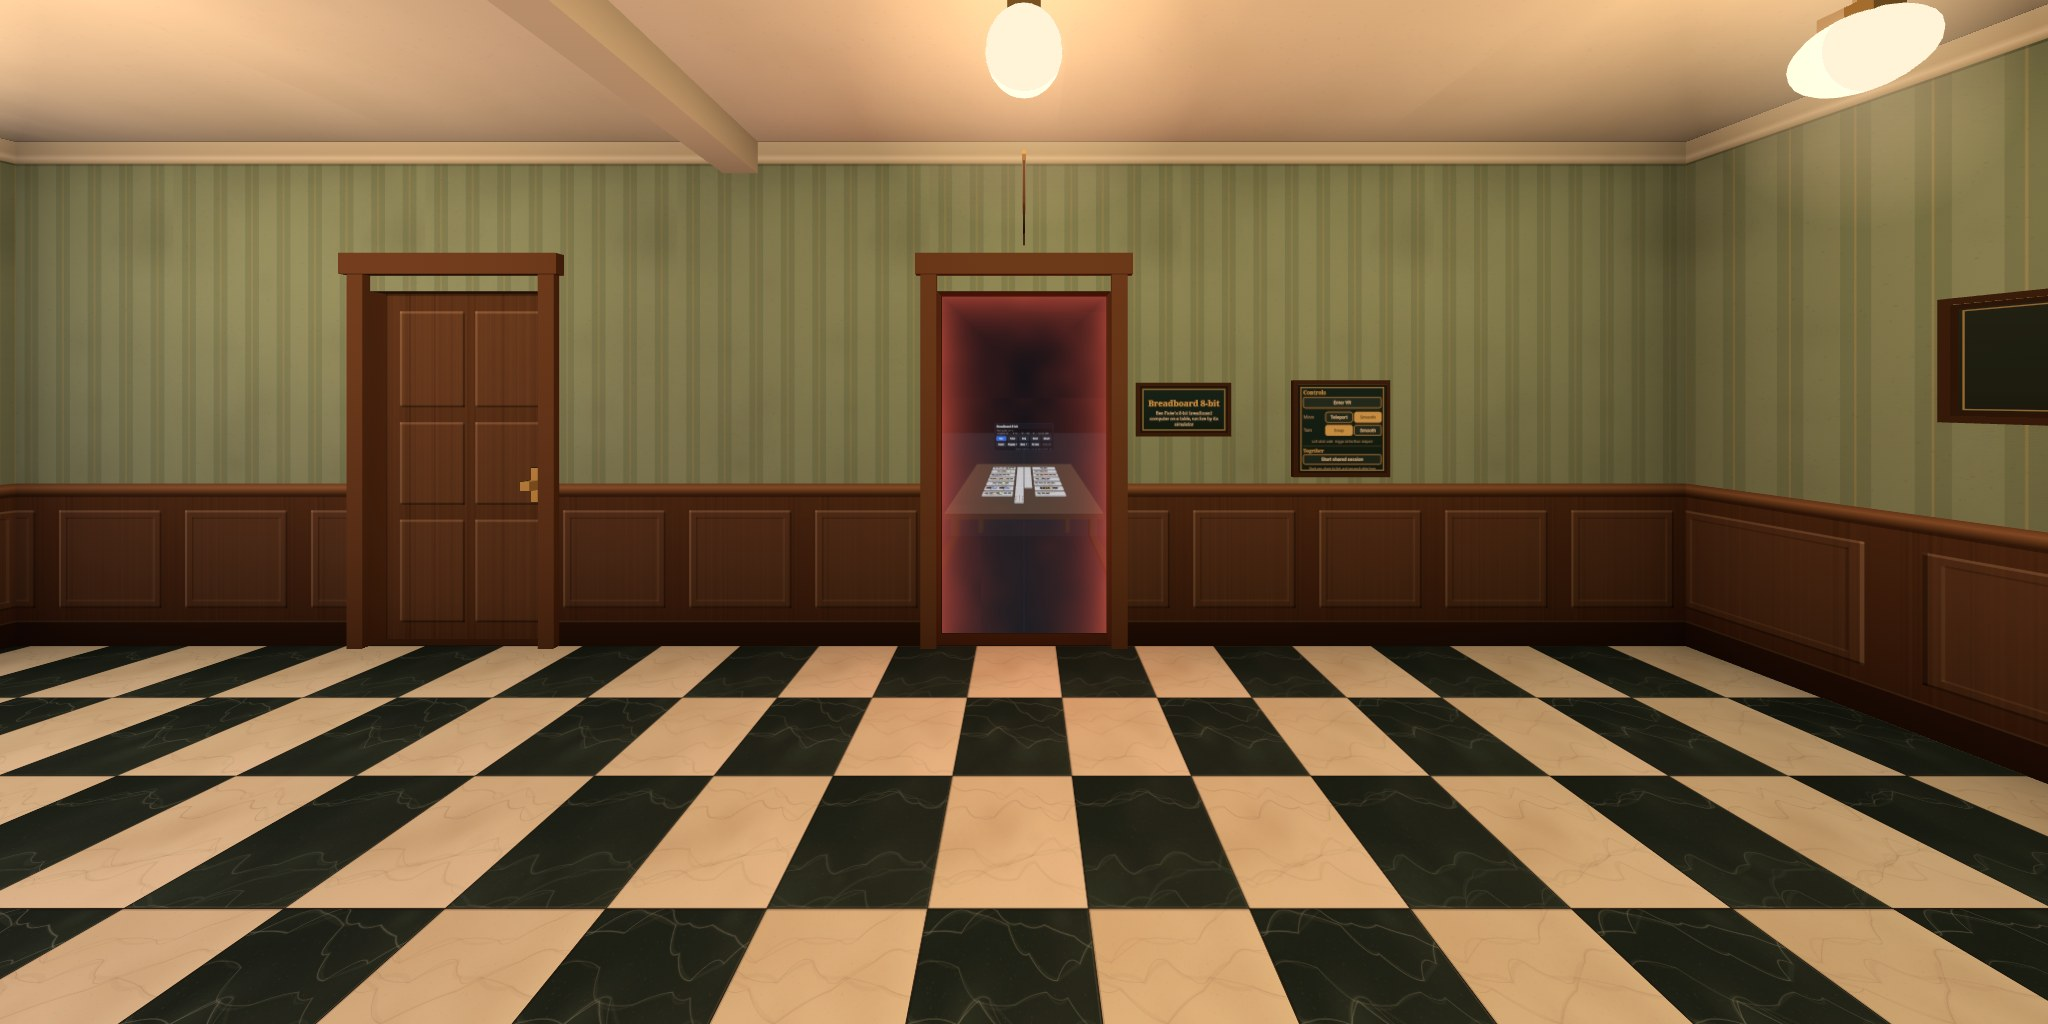
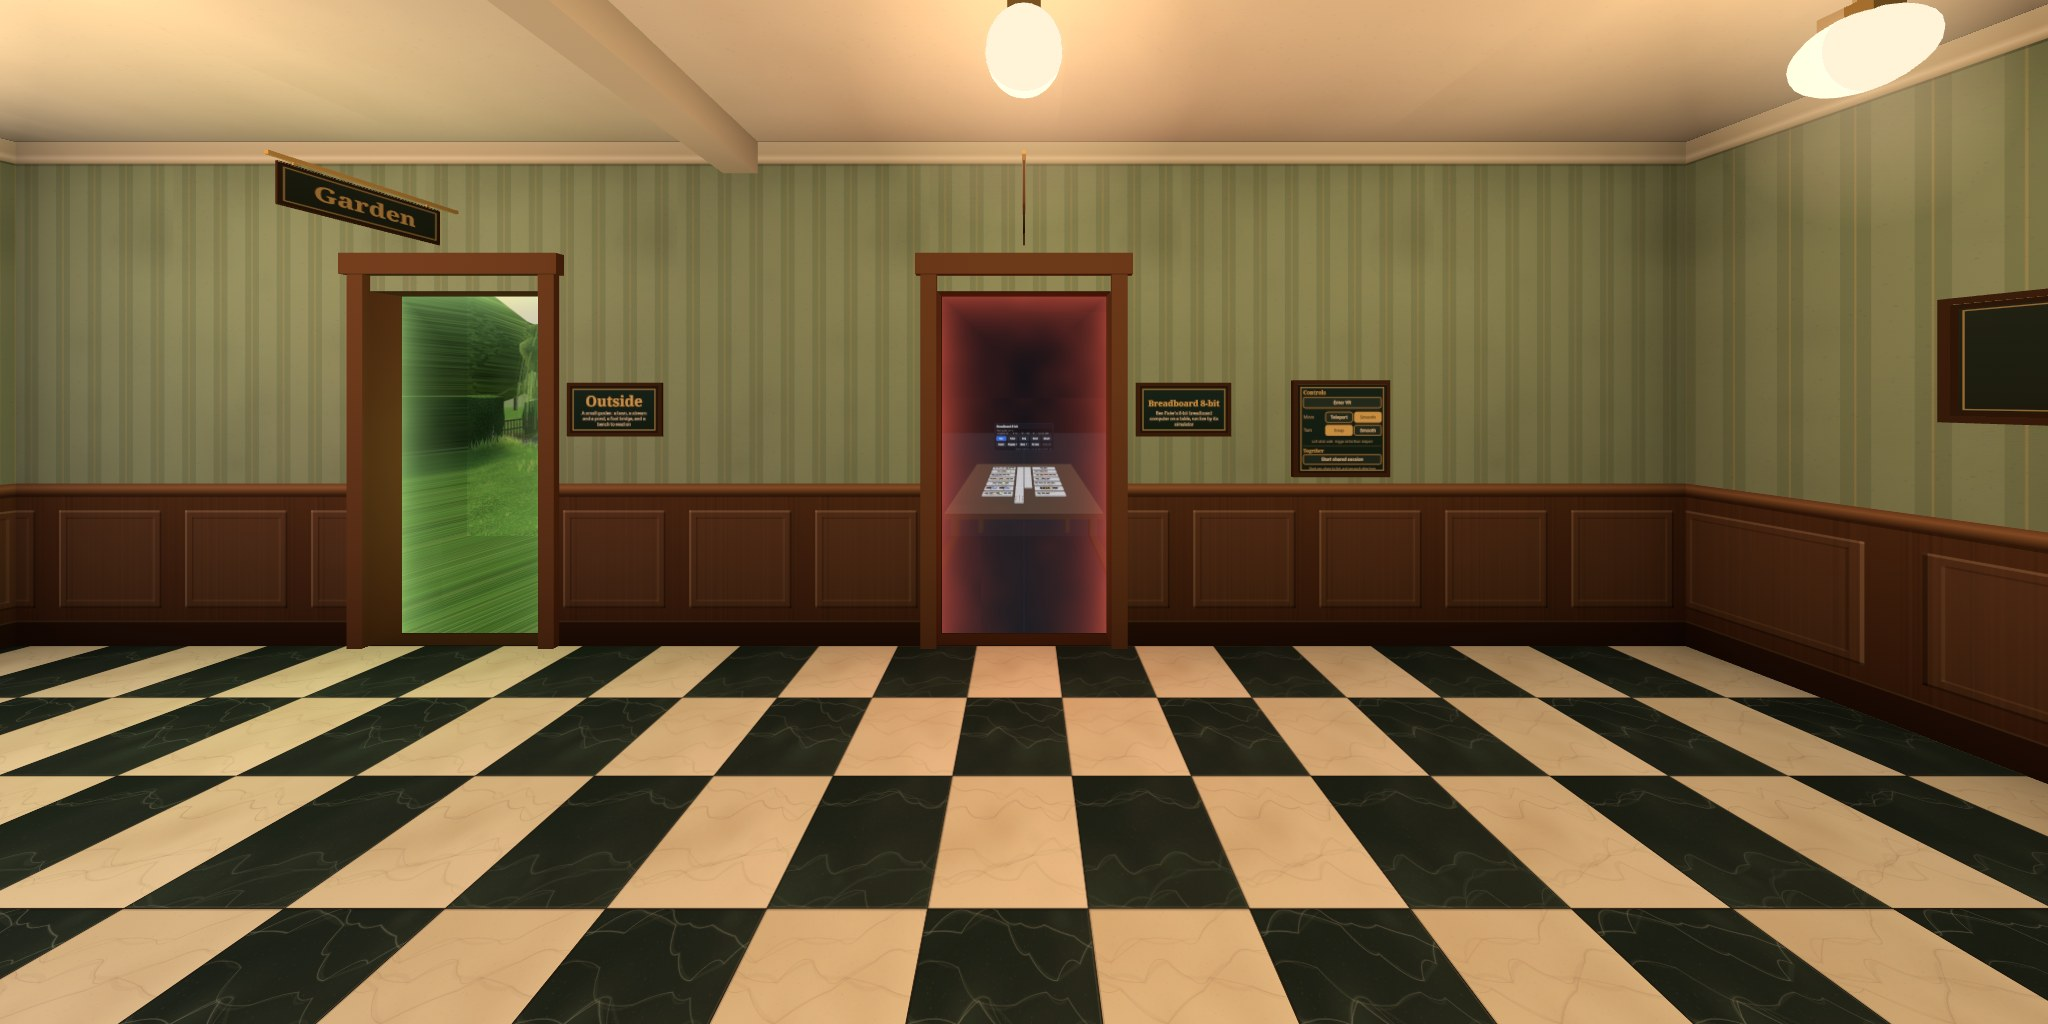
A fourth door: Outside, a small garden, under a "Garden" sign
The right door of the second pair, across from the Music Room, opens
https://ariamokr.github.io/outside/ (AriaMoKr/outside), built for this
hallway's door link: it reads from, back, dx, yaw, pitch, dw, dh, glow
and room, comes out where the visitor went in, takes the VR hand-over,
joins Together as "outside", and its door back leads to ?from=outside.
The entry is the same as HALLWAY_DOOR in its public/js/way.js; its
preview is its hallway-preview.jpg, rendered for this doorway.

The door views are rendered again on a Quest (the new doorway changes
what the others look out on), and views.json gains "outside", which the
garden shows through its door back. README and CLAUDE.md list the
fourth door.

Checked: npm test (35 pass); in the browser pane, through the door
0.12 m left of centre, turned 10° left and looking 5° down, the garden
put the visitor at x -0.12 facing 10° left and 5° down, and through its
door back the hallway put them in front of the Outside door.

Changed region(s): [[0.0938, 0.2812, 0.3438, 0.7188], [0.125, 0.1562, 0.2188, 0.25]]

diff --git a/public/index.html b/public/index.html
@@ -26,6 +26,7 @@
       <li><a href="https://ariamokr.github.io/vrlbry/?place=%7Egutenberg_en_all_2025-11">vrlbry</a>: a candle-lit virtual library</li>
       <li><a href="https://ariamokr.github.io/breadboard/vr.html">Breadboard 8-bit</a>: Ben Eater's 8-bit breadboard computer in 3D</li>
       <li><a href="https://ariamokr.github.io/music/">vrlbry · music</a>: Project Gutenberg's music books in vrlbry's library</li>
+      <li><a href="https://ariamokr.github.io/outside/">Outside</a>: a small garden, a stream and a pond, and a bench to read on</li>
     </ul>
   </div>
 </noscript>

diff --git a/public/js/environments.js b/public/js/environments.js
@@ -42,4 +42,14 @@ export const ENVIRONMENTS = [
     // No preview yet: its social.jpg is still vrlbry's, so the doorway shows the title.
     color: '#9b86d6',
   },
+  {
+    // The same as HALLWAY_DOOR in AriaMoKr/outside's public/js/way.js.
+    id: 'outside',
+    title: 'Outside',
+    subtitle: 'A small garden: a lawn, a stream and a pond, a foot bridge, and a bench to read on',
+    sign: 'Garden',
+    url: 'https://ariamokr.github.io/outside/',
+    preview: 'https://ariamokr.github.io/outside/hallway-preview.jpg',
+    color: '#9fd07a',
+  },
 ];

diff --git a/README.md b/README.md
@@ -5,9 +5,11 @@
 A WebXR corridor whose doors lead to other environments:
 [vrlbry](https://ariamokr.github.io/vrlbry/), a candle-lit virtual library;
 [Breadboard 8-bit](https://ariamokr.github.io/breadboard/vr.html), Ben Eater's 8-bit breadboard
-computer in 3D, run live by its simulator; and [vrlbry · music](https://ariamokr.github.io/music/),
-vrlbry with Project Gutenberg's music books on its shelves. Walk the hallway in VR on a Meta
-Quest, on a desktop or on a phone. There is nothing to install.
+computer in 3D, run live by its simulator; [vrlbry · music](https://ariamokr.github.io/music/),
+vrlbry with Project Gutenberg's music books on its shelves; and
+[Outside](https://ariamokr.github.io/outside/), a small garden with a stream, a pond and a bench to
+read on. Walk the hallway in VR on a Meta Quest, on a desktop or on a phone. There is nothing to
+install.
 
 Each open doorway shows the room behind it: the environment's picture, seen with parallax (and
 depth, in a headset), behind a glowing veil. A door without a picture shows its name instead.
@@ -200,13 +202,13 @@ navigator.xr?.addEventListener('sessiongranted', () => {
 ```
 
 Without that listener, the visitor arrives at the environment's 2D page and presses its Enter VR
-button. vrlbry, Breadboard 8-bit's VR view and vrlbry · music all listen.
+button. vrlbry, Breadboard 8-bit's VR view, vrlbry · music and Outside all listen.
 
 The hand-over has two limits, measured on a Quest with Quest Browser 152 (vrlbry,
 [`7eca62b`](https://github.com/AriaMoKr/vrlbry/commit/7eca62b)):
 
 - **One origin only.** A navigation to another origin (another domain, or another port) gets no
-  grant, so the visitor arrives at the 2D page. The hallway and all three environments are on
+  grant, so the visitor arrives at the 2D page. The hallway and all four environments are on
   `ariamokr.github.io`, so the hand-over can work between them.
 - **About 5 seconds.** The grant arrives about 0.1 s after the next page starts. A request made up
   to 4.7 s later starts the session, while one at 5.2 s is refused as needing a click. Ask for the

diff --git a/CLAUDE.md b/CLAUDE.md
@@ -7,8 +7,11 @@ Guidance for Claude Code in this repository.
 A WebXR hallway (three.js 0.186, plain ES modules, no bundler or build step): a corridor whose
 doors lead to other web environments: vrlbry (https://ariamokr.github.io/vrlbry/, AriaMoKr/vrlbry,
 whose conventions this project follows), Breadboard 8-bit's VR view
-(https://ariamokr.github.io/breadboard/vr.html) and vrlbry · music (https://ariamokr.github.io/music/,
-AriaMoKr/music: vrlbry with Gutenberg's Music class). `public/` is the whole site. `README.md` covers
+(https://ariamokr.github.io/breadboard/vr.html), vrlbry · music (https://ariamokr.github.io/music/,
+AriaMoKr/music: vrlbry with Gutenberg's Music class) and Outside (https://ariamokr.github.io/outside/,
+AriaMoKr/outside: a small garden built for the door link, whose `HALLWAY_DOOR` in
+`public/js/way.js` is its entry here; keep them in step). All four take the VR hand-over.
+`public/` is the whole site. `README.md` covers
 using it, adding a door, what a door's link tells the environment, how environments link back,
 and the door views the site publishes for them.
 
